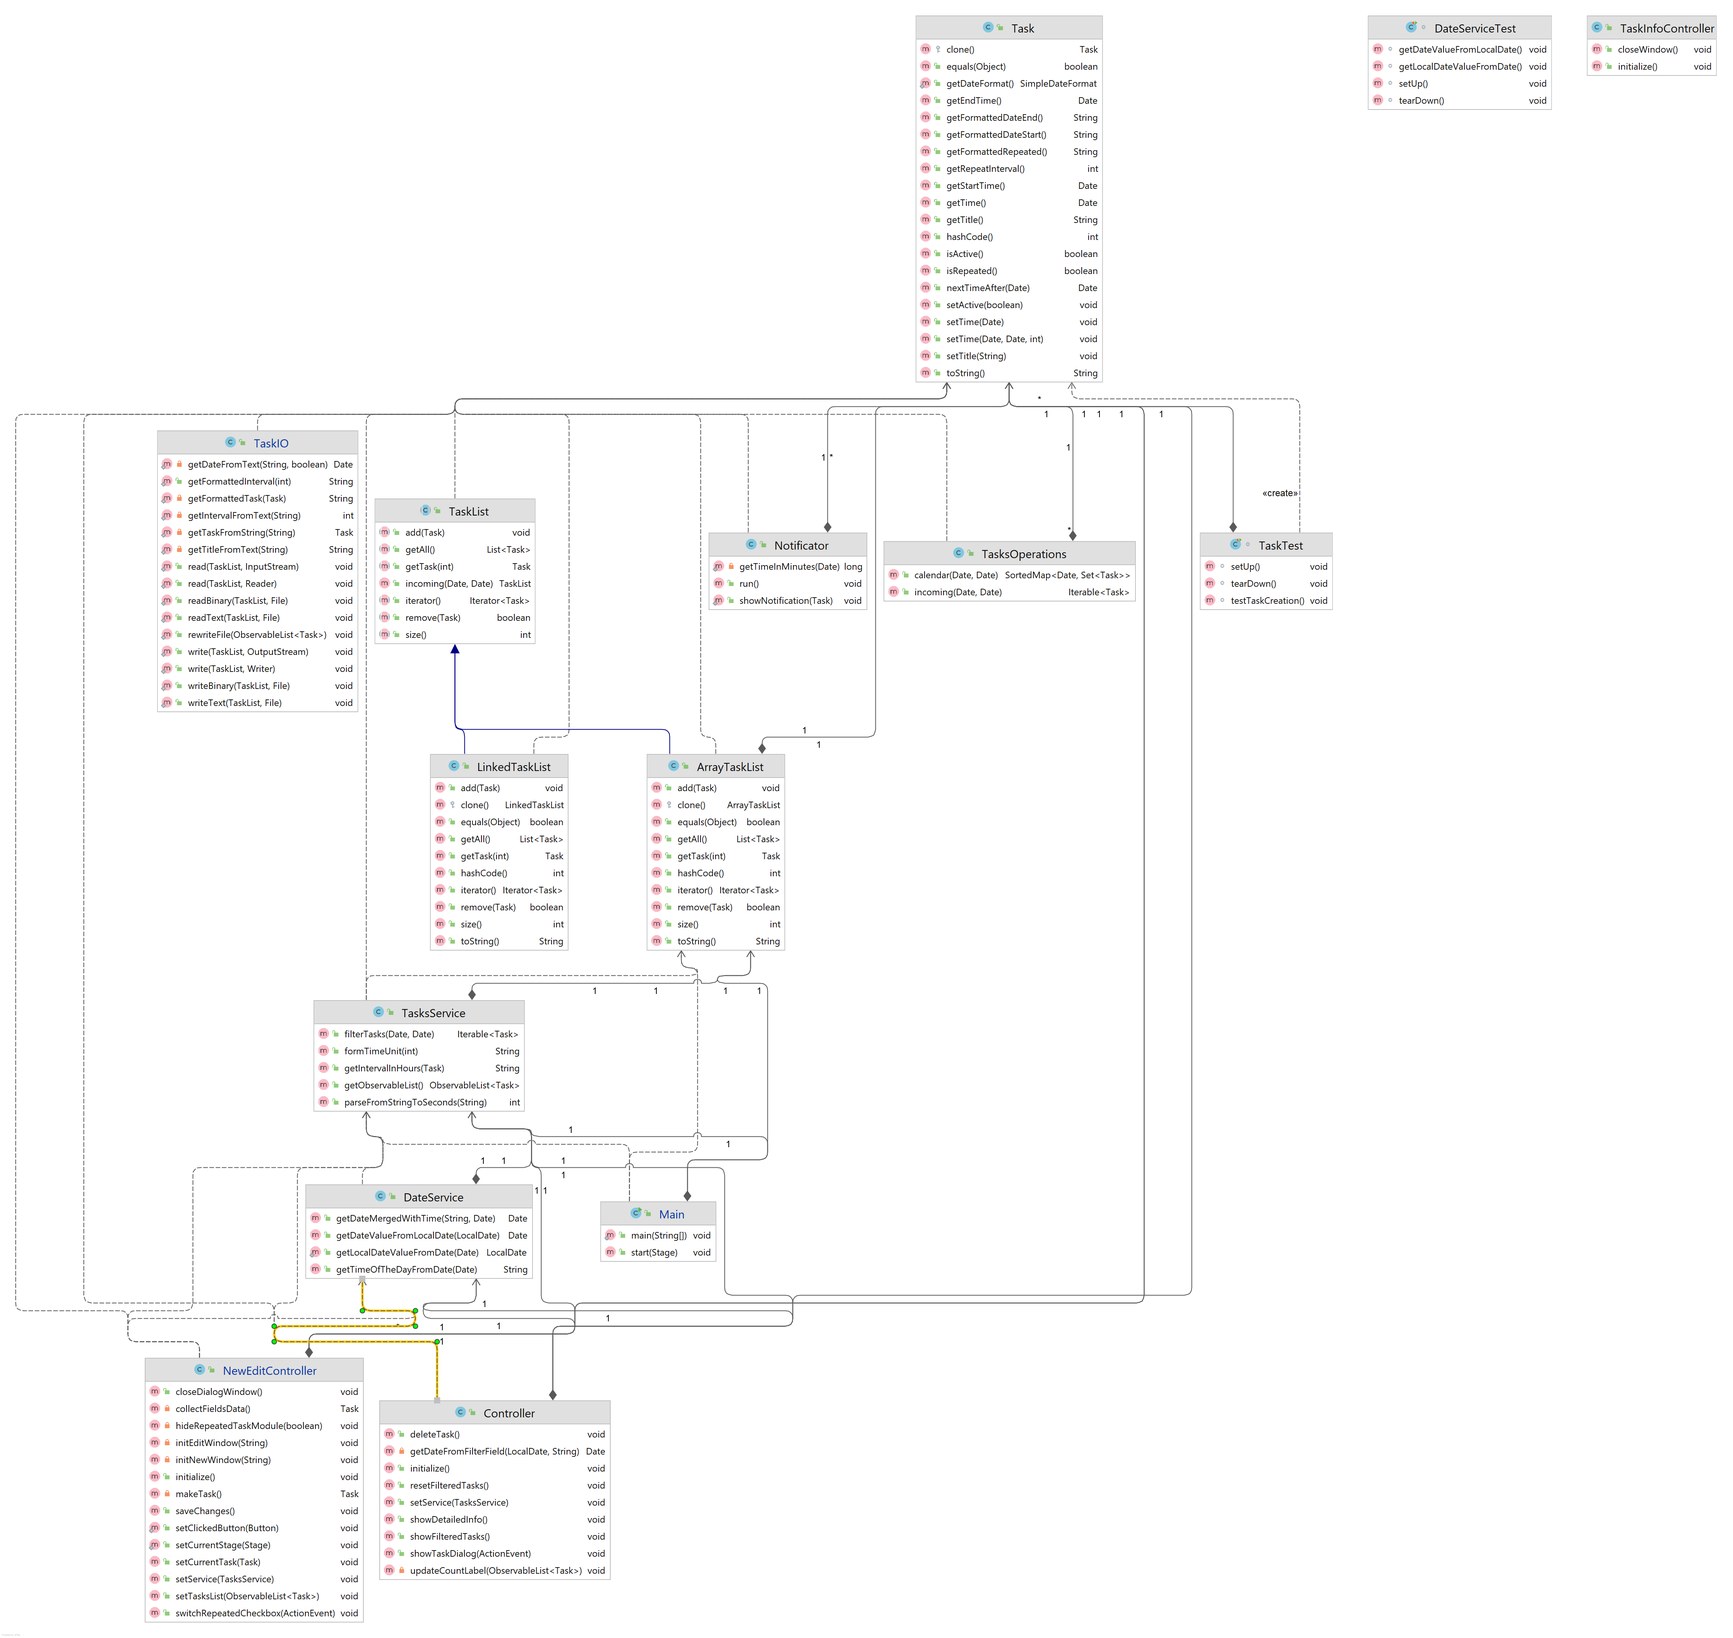
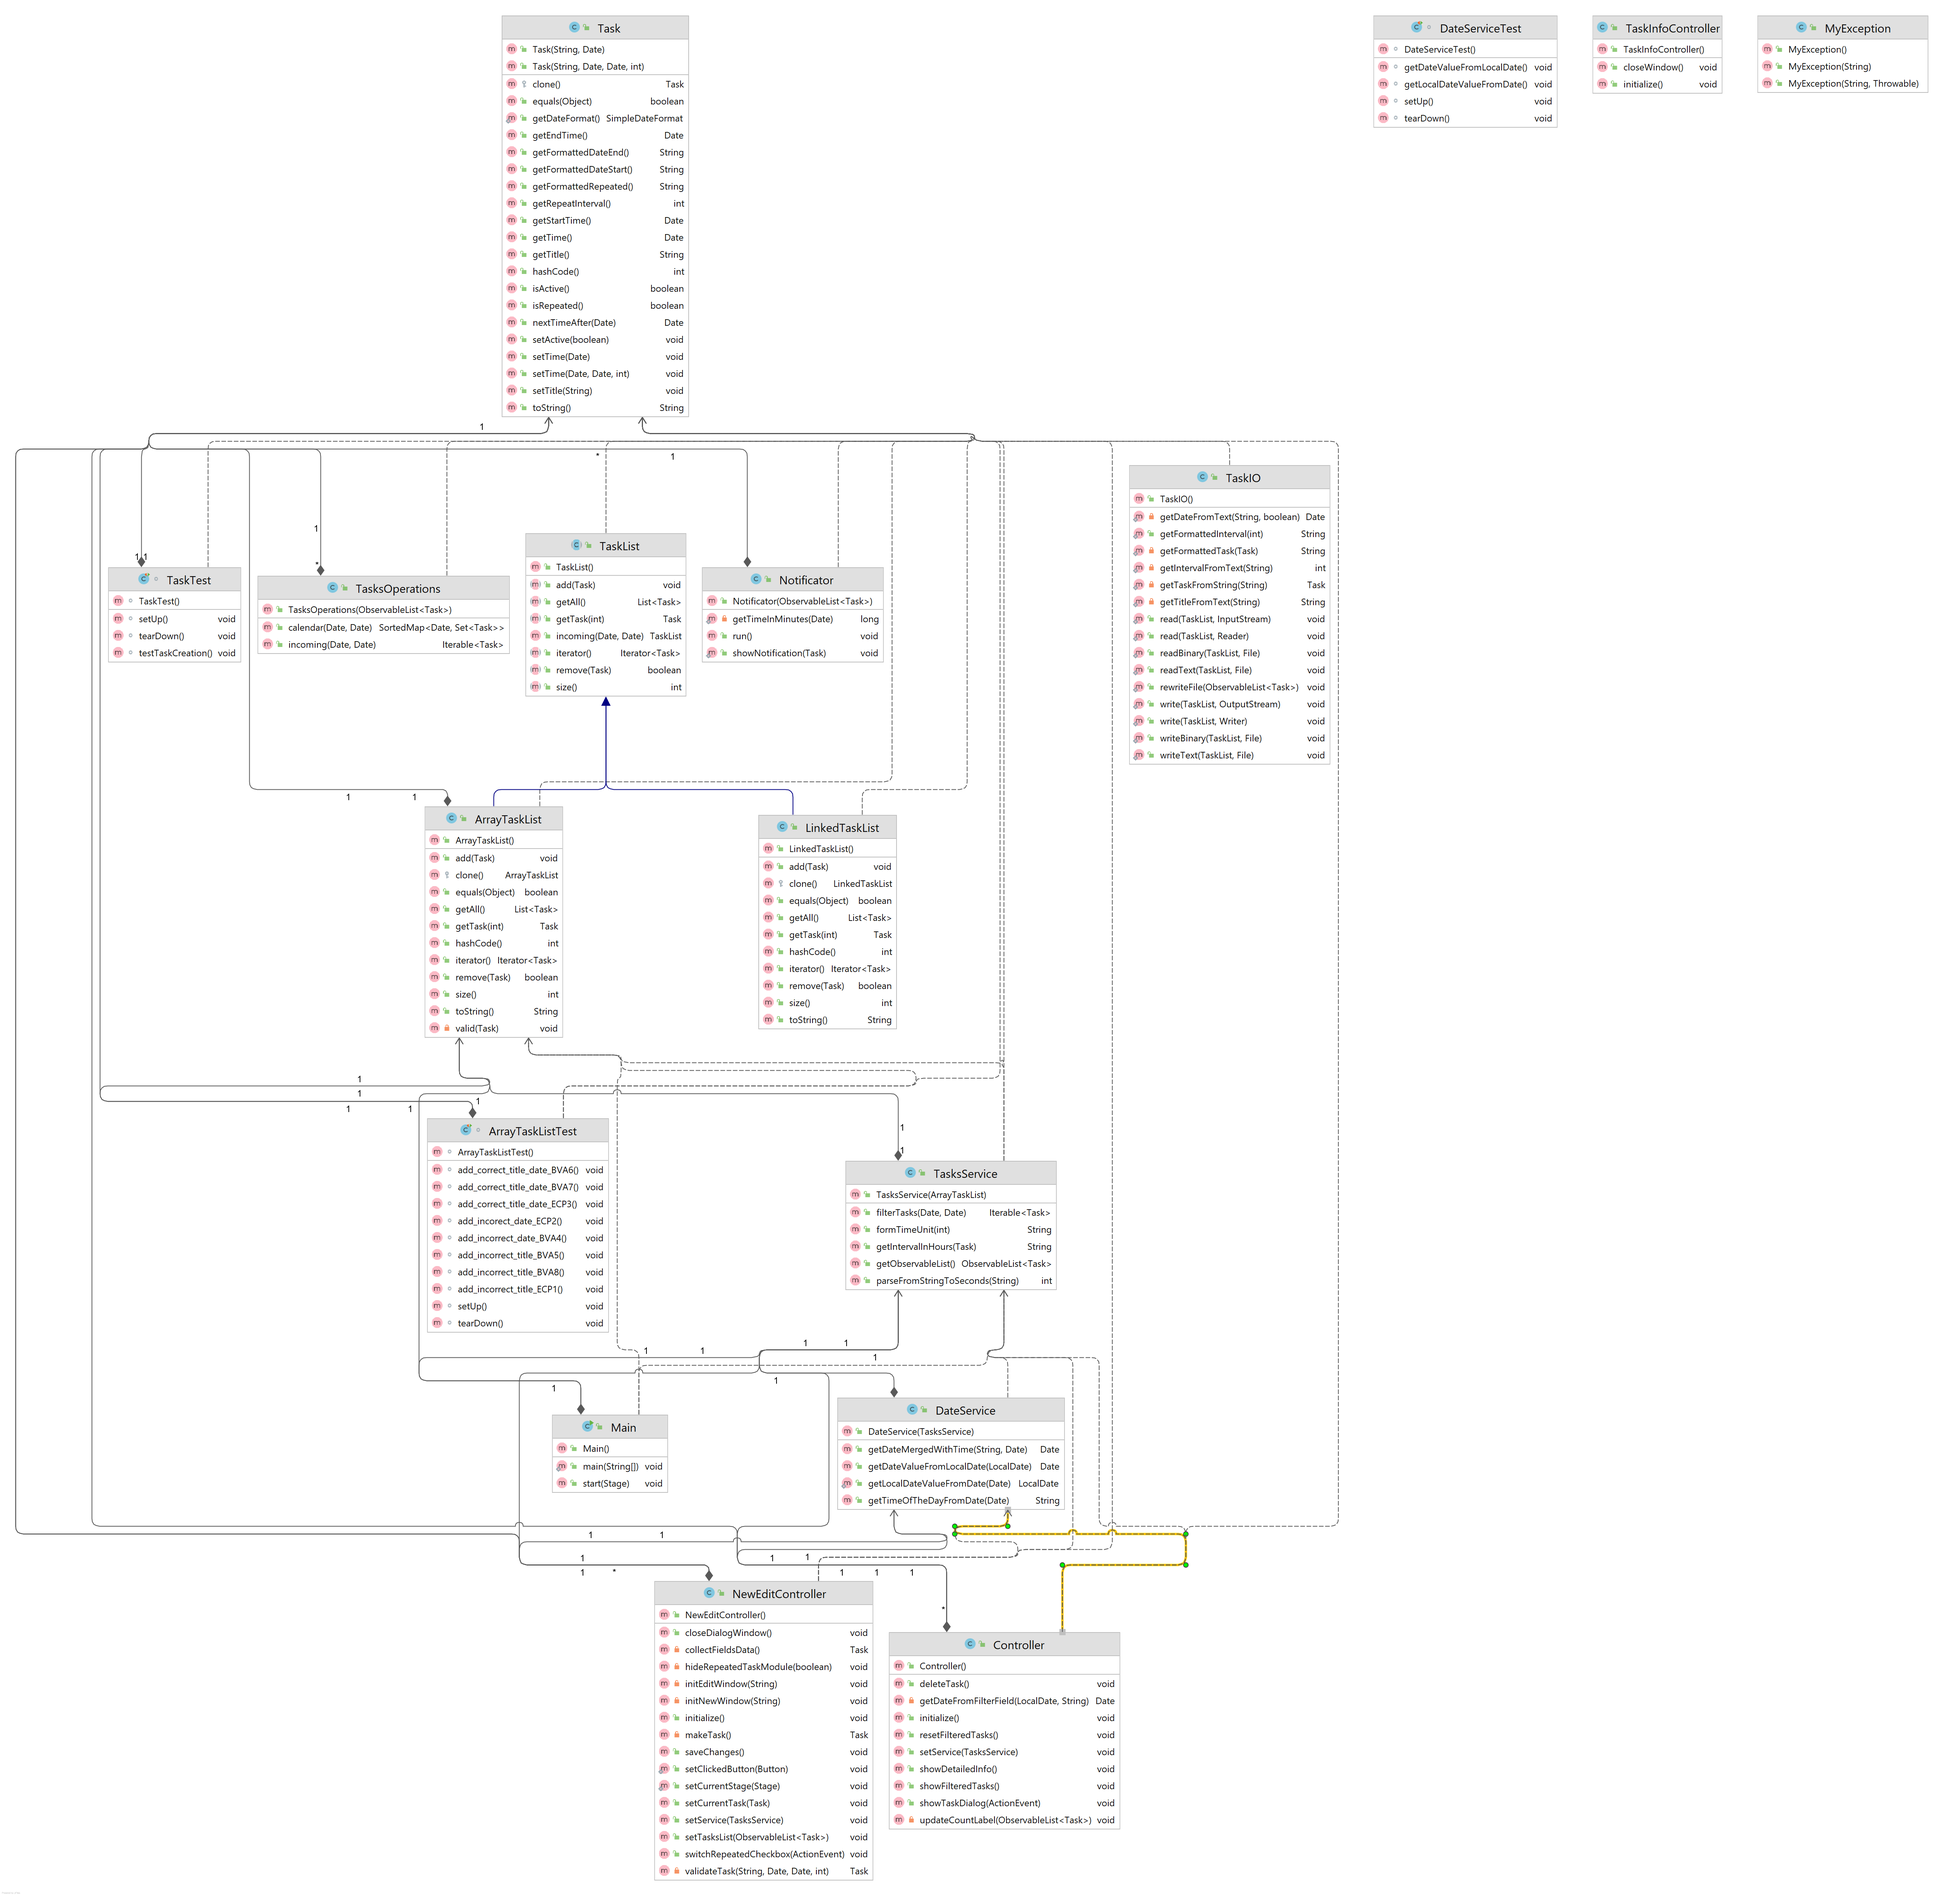
added diagram changes

diff --git a/01_Tasks/src/main/java/tasks/controller/NewEditController.java b/01_Tasks/src/main/java/tasks/controller/NewEditController.java
@@ -13,6 +13,7 @@ import javafx.scene.control.TextField;
 import javafx.stage.Modality;
 import javafx.stage.Stage;
 import org.apache.log4j.Logger;
+import tasks.model.MyException;
 import tasks.model.Task;
 import tasks.services.DateService;
 import tasks.services.TaskIO;
@@ -167,7 +168,7 @@ public class NewEditController {
         try {
             result = makeTask();
         }
-        catch (RuntimeException e){
+        catch (RuntimeException | MyException e){
             incorrectInputMade = true;
             try {
                 Stage stage = new Stage();
@@ -184,7 +185,7 @@ public class NewEditController {
         return result;
     }
 
-    private Task makeTask(){
+    private Task makeTask() throws MyException {
         Task result;
         String newTitle = fieldTitle.getText();
         Date startDateWithNoTime = dateService.getDateValueFromLocalDate(datePickerStart.getValue());//ONLY date!!without time
@@ -194,15 +195,34 @@ public class NewEditController {
             Date newEndDate = dateService.getDateMergedWithTime(txtFieldTimeEnd.getText(), endDateWithNoTime);
             int newInterval = service.parseFromStringToSeconds(fieldInterval.getText());
             if (newStartDate.after(newEndDate)) throw new IllegalArgumentException("Start date should be before end");
-            result = new Task(newTitle, newStartDate,newEndDate, newInterval);
+            result = validateTask(newTitle, newStartDate,newEndDate, newInterval);
         }
         else {
-            result = new Task(newTitle, newStartDate);
+            result = validateTask(newTitle, newStartDate,null,0);
         }
         boolean isActive = checkBoxActive.isSelected();
         result.setActive(isActive);
         log.info(result);
         return result;
+    }
+
+    private Task validateTask(String title, Date start, Date end, int interval) throws MyException{
+        Date now =new Date();
+        if(start.before(now) || start.equals(now)){
+            throw new MyException("Start date shouldn't be < = than current date time");
+        }
+        if(end!=null && (start.before(end) || start.equals(end))){
+            throw new MyException("Start date shouldn't be > =  than end date");
+        }
+
+        if(title.length()<=1 || title.length() >=255){
+            throw new MyException("Title length must be between 1 and 255");
+        }
+        if(end!= null){
+            return new Task(title,start, end, interval);
+        }
+        else return new Task(title,start);
+
     }
 
 

diff --git a/01_Tasks/src/main/java/tasks/model/ArrayTaskList.java b/01_Tasks/src/main/java/tasks/model/ArrayTaskList.java
@@ -52,16 +52,40 @@ public class ArrayTaskList extends TaskList{
     }
 
     @Override
-    public void add(Task task){
+    public void add(Task task) throws MyException {
         if (task==null) throw new NullPointerException("Task shouldn't be null");
-        if (numberOfTasks == currentCapacity-1){
-            currentCapacity = currentCapacity * 2;
-            Task[] withAddedTask = new Task[currentCapacity];
-            System.arraycopy(tasks,0,withAddedTask,0,tasks.length);
-            this.tasks = withAddedTask;
+
+            valid(task);
+            if (numberOfTasks == currentCapacity-1){
+                currentCapacity = currentCapacity * 2;
+                Task[] withAddedTask = new Task[currentCapacity];
+                System.arraycopy(tasks,0,withAddedTask,0,tasks.length);
+                this.tasks = withAddedTask;
+            }
+            this.tasks[numberOfTasks] = task;
+            this.numberOfTasks++;
+
+
+
+    }
+
+    private void valid(Task task) throws MyException {
+        Date now =new Date();
+        Date start=task.getStartTime();
+        Date end=task.getEndTime();
+        String title=task.getTitle();
+
+        if(start.before(now)){
+            throw new MyException("Start date shouldn't be < than current date time");
         }
-        this.tasks[numberOfTasks] = task;
-        this.numberOfTasks++;
+        if(end.before(start)){
+            throw new MyException("Start date shouldn't be > than end date");
+        }
+
+        if(title=="" || title.length()<=1 || title.length() >=255){
+            throw new MyException("Title length must be between 1 and 255");
+        }
+
     }
     @Override
     public boolean remove(Task task){
@@ -141,7 +165,11 @@ public class ArrayTaskList extends TaskList{
     protected ArrayTaskList clone() throws CloneNotSupportedException {
         ArrayTaskList newTasks = new ArrayTaskList();
         for (int i = 0; i < this.tasks.length; i++){
-            newTasks.add(this.getTask(i));
+            try {
+                newTasks.add(this.getTask(i));
+            } catch (MyException e) {
+                e.printStackTrace();
+            }
         }
         return newTasks;
 

diff --git a/01_Tasks/src/main/java/tasks/model/MyException.java b/01_Tasks/src/main/java/tasks/model/MyException.java
@@ -1,0 +1,14 @@
+package tasks.model;
+
+public class MyException extends Exception {
+    public MyException() {
+    }
+
+    public MyException(String message) {
+        super(message);
+    }
+
+    public MyException(String message, Throwable cause) {
+        super(message, cause);
+    }
+}
